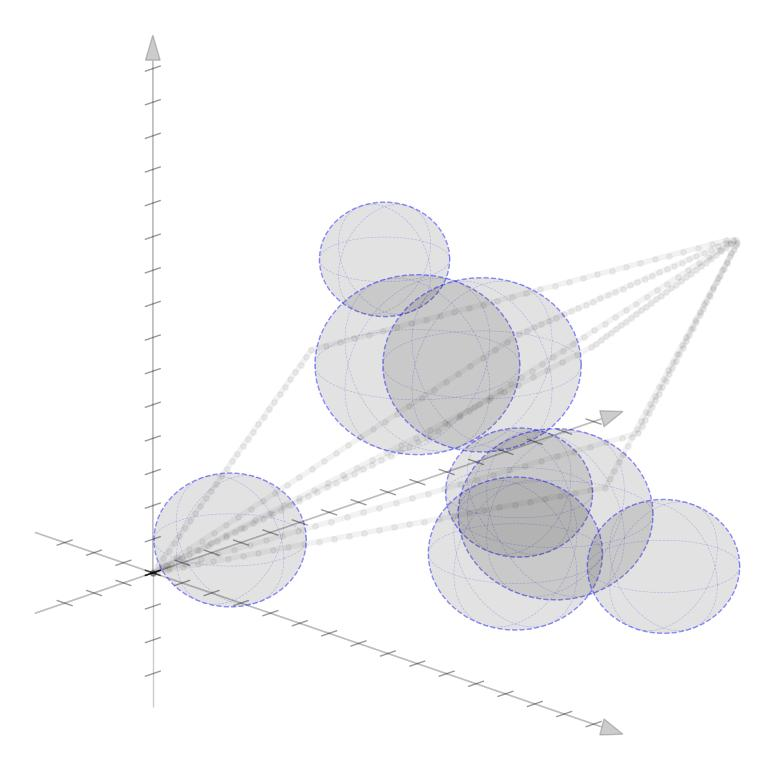
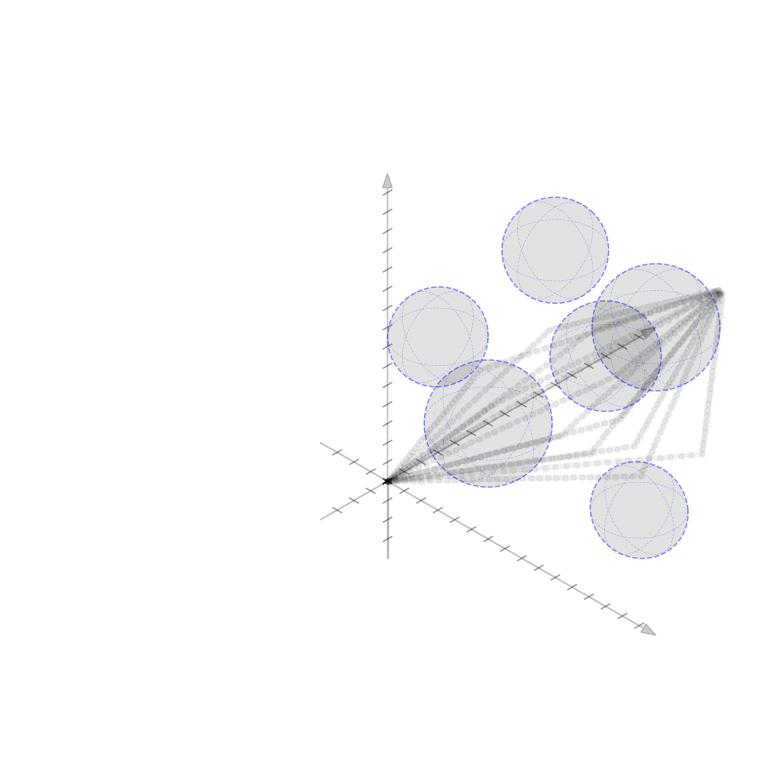
more

diff --git a/blog/scvx.html b/blog/scvx.html
@@ -111,8 +111,8 @@
 
   </style>
 
-  <link rel="stylesheet" href="/Users/dan/Documents/danjcalderone.github.io/css/main.css" ></link>
-  <!-- <link rel="stylesheet" href="/Users/dan/Documents/danjcalderone.github.io/main.css" ></link> -->
+  <link rel="stylesheet" href="/css/main.css" ></link>
+  <!-- <link rel="stylesheet" href="/main.css" ></link> -->
   <link rel="stylesheet" href="/css/main.css" ></link>
 
     </head>
@@ -163,19 +163,23 @@
               <b> Problem Setup </b>
               <p>
 
-              We consider a basic trajectory planning problem to get between two points.  We want to find a path between the starting and end point consistent with the dynamcis while avoiding the obstacles.  We will consider state vector \(x(t) \in \mathbb{R}^n\) for \(n=2,3\)
-              and controls \(u(t) \in \mathbb{R}^n\) for \(n=2,3\) as well.  We consider the simple environments displayed here with given starting and ending locations, \(x_0\) and \(x_T\) respectively.
+              We consider a basic trajectory planning problem to get between two points.  We want to find a path between the starting and end point consistent with the dynamcis while avoiding a set of obstacles denotes \(\mathcal{O}\).  We will consider state vector \(x(t) \in \mathbb{R}^n\) for \(n=2,3\)
+              and controls \(u(t) \in \mathbb{R}^n\) for \(n=2,3\) as well.  We will consider simple spherical obstacles with centers \(p_o \in \mathbb{R}^{n}\) and radii \(r_o \in \mathbb{R}_+\).   The starting and ending locations at times 0 and T respectively will be given.  We display two such simple environments in 2D and 3D here. 
             </p>
+          </div>
 
                 <div class='imgFixed' >
-<!--                 <img src="/Users/dan/Documents/danjcalderone.github.io/figs/blog/scvx/2Dinit.png" width=35%></img>
-                <img src="/Users/dan/Documents/danjcalderone.github.io/figs/blog/scvx/3Dinit.jpeg" width=35%></img>
- -->                
-                <img src="/figs/blog/scvx/2Dinit.png" width=35%></img>
-                <img src="/figs/blog/scvx/3Dinit.jpeg" width=35%></img>
 
+                
+                <img src="/figs/blog/scvx/environ2D.png" width=45%></img>
+                <img src="/figs/blog/scvx/environ3D.png" width=45%></img>
+                
+<!--                 <img src="/figs/blog/scvx/2Dinit.png" width=35%></img>
+                <img src="/figs/blog/scvx/3Dinit.jpeg" width=35%></img>
+ -->
                 </div>
 
+<div class="txt" style="padding:40px">
 
             <b> Dynamics:  </b>
 
@@ -184,7 +188,7 @@
 
               $$
               \begin{aligned}
-              \dot{x}(t) = u(t)
+              \dot{x}(t) = f(x,u,t) =  u(t)
               \end{aligned}
               $$
               We can now compute the discrete time dynamics
@@ -285,18 +289,19 @@
               $$
 
               The initial state trajectories \(\mathbf{x}^(0)\) can then be computed by integrating the initial contols.  Several such trajectories are shown here passing through their random middle points.  
+            </div>
 
 
 
                 <div class='imgFixed' >
-<!--                 <img src="/Users/dan/Documents/danjcalderone.github.io/figs/blog/scvx/2Dinit.png" width=35%></img>
-                <img src="/Users/dan/Documents/danjcalderone.github.io/figs/blog/scvx/3Dinit.jpeg" width=35%></img>
- -->                <img src="/figs/blog/scvx/2Dinit.png" width=35%></img>
+                <img src="/figs/blog/scvx/2Dinit.jpeg" width=45%></img>
+                <img src="/figs/blog/scvx/3Dinit.jpeg" width=45%></img>
+<!--                 <img src="/figs/blog/scvx/2Dinit.png" width=35%></img>
                 <img src="/figs/blog/scvx/3Dinit.jpeg" width=35%></img>
-                
+ -->                
                 </div>
 
-
+<div class="txt" style="padding:40px">
 
               Note that in computing the initial control and state trajectories we have ignored the obstacles and we will need to fix this in the next step.  
 
@@ -319,7 +324,7 @@
               w_s\sum_k v_k^\top v_k \\
               \text{s.t.} & \quad \partial x_{k+1} = A_k \partial x_k + B_k \partial u_k, \ \quad \forall k \\
               & \quad \partial x_0 = 0, \ \partial x_T = 0 \\
-              & \quad G_k \partial x_k  - d_k + s_k \geq 0, \ s_k \geq 0 \quad \forall k 
+              & \quad G_k \partial x_k  \leq d_k + v_k \geq 0, \ v_k \geq 0 \quad \forall k 
               \end{aligned}
               $$
 
@@ -346,26 +351,69 @@
               <b> Linearized Boundary Constraints </b>
               <p> 
 
-                At each time step, we consider a linearized version of the constraint posed by the obstacle for the state at that time step.  Specifically, we can force the  state
+                At each time step, we consider a linearized version of the constraint posed by each of the obstacles for the state at that time step.  Specifically, we can force the  state
                 perturbation at time step \(k\), \(\partial x_k\), to satisfy the linear constraint 
                 $$
                 \begin{aligned}
-                G_k \partial x_k + d_k + v_k \geq 0
+                G_k \partial x_k  \leq d_k + v_k 0, \quad v_k \geq 0
                 \end{aligned}
                 $$
-                We illustrate this here for three obstacles in \(\mathbb{R}^2\) and \(\mathbb{R}^3\).  Each row of \(G_k\) corresponds to the normal direction of the obstacle in the direction of the current estimate of that state (\(x_k\)).  The specific parameters \(G_k\) and \(d_k\) can then be computed as follows.  Note here that \(G_k\) and \(d_k\) are both implicitly functions of the current state estimate \(x_k\).  The additional variable \(v_k\) is a buffer variable that allows the constraints to be violated at intermediate iterations; we will, however, penalize this buffer variable heavily in the objective function to push the trajectory outside the obstacles.  To be conservative, we can also provide a buffer around the obstacles as well to keep our trajectory away from them.  In the following figures, we illustrate the linearized constraints at each time step along the state trajectory.  Note that the perturbed state at each time step is bounded by a different set of hyperplanes that approximate the location of the obstacle relative to the current estimate of that particular state. 
+                Here \(G \in \mathbb{R}^{|\mathcal{O}|\times n}\) is matrix whose rows give the normal directions toward the surface of each obstacle given the current estimate of \(x_k\) and the elements of \(d_k \in \mathbb{R}^{|\mathcal{O}|}\) gives the distance to each obstacle
+
+                $$  
+                \begin{aligned}
+                G_k = 
+                \begin{bmatrix}
+                - & G_{1k} & - \\
+                & \vdots &  \\
+                - & G_{|\mathcal{O}|k} & - \\
+                \end{bmatrix}, \qquad 
+                d_k = 
+                \begin{bmatrix}
+                d_{1k}  \\
+                \vdots \\
+                d_{|\mathcal{O}|k} 
+                \end{bmatrix}, 
+                \end{aligned}
+                $$
+                as displayed in these figures in 2D and 3D.  
+                </p>            
+
+</div>
+                <div class='imgFixed' >
+                <img src="/figs/blog/scvx/bounds2D.png" width=75%></img>
+                </div>
+
+                <div>
+                <img src="/figs/blog/scvx/bounds3D.png" width=75%></img>
+                </div>
+
+<div class="txt" style="padding:40px">
+                <p>
+
+                Each row of \(G_k\) and each element of \(d_k\) can be computed as 
+                $$  
+                \begin{aligned}
+                G_{ok} = \frac{p_o - x_k}{||p_o - x_k||},  \qquad d_{ok} = ||p_o - x_k|| - r_o
+                \end{aligned}
+                $$
+                where \(p_o \in \mathbb{R}^n\) is the position of each obstacle and \(r_o \in \mathbb{R}_+\) is the radius of each obstacle.  The additional variable \(v_{ok}\) (vectorized as \(v_k \in \mathbb{R}^{|\mathcal{O}|}\)) is a buffer variable that allows the constraints to be violated at intermediate iterations; we will, however, penalize these buffer variables heavily in the objective function to push the trajectory outside the obstacles.  To be conservative, we can also provide a buffer around the obstacles as well to keep our trajectory away from them.  In the following figures, we illustrate the linearized constraints at each time step along the state trajectory.  Note that the perturbed state at each time step is bounded by a different set of hyperplanes that approximate the location of the obstacle relative to the current estimate of that particular state. 
 
               </p>
 
+
+</div>
+
                 <div class='imgFixed' >
-<!--                 <img src="/Users/dan/Documents/danjcalderone.github.io/figs/blog/scvx/2Dtraj_bounds.gif" width=45%></img>
-                <img src="/Users/dan/Documents/danjcalderone.github.io/figs/blog/scvx/3Dtraj_bounds.gif" width=45%></img>
- -->                <img src="/figs/blog/scvx/2Dtraj_bounds.gif" width=40%></img>
+                <img src="/figs/blog/scvx/2Dtraj_bounds.gif" width=45%></img>
+                <img src="/figs/blog/scvx/3Dtraj_bounds.gif" width=45%></img>
+                
+<!--                 <img src="/figs/blog/scvx/2Dtraj_bounds.gif" width=40%></img>
                 <img src="/figs/blog/scvx/3Dtraj_bounds.gif" width=55%></img>
-                </div>
+ -->                </div>
 
 
-
+<div class="txt" style="padding:40px">
 
               <b> Objective Function </b>
 
@@ -389,16 +437,19 @@
               \text{Update: } & \quad  \mathbf{u}^{(i+1)} = \mathbf{u}^{(i)} + \alpha \partial \mathbf{u}^{(i)} \quad \text{and} \quad i = i + 1
               \end{aligned}
               $$
-              for some step-size \(\alpha\) while \(\mathbf{u}^{(i)}\) continues to change. In each iteration, we solve for perturbations to the control (and the state) trajectories that are consistent with a linearized version of the problem around the current trajectory.  The iterative process of improving the trajectories in 2D and 3D is illustrated below 
+              for some step-size \(\alpha\) while \(\mathbf{u}^{(i)}\) continues to change. In each iteration, we solve for perturbations to the control (and the state) trajectories that are consistent with a linearized version of the problem around the current trajectory.  The iterative process of improving the trajectories in 2D 
               </p>
             </div>
 
                 <div class='imgFixed' >
-<!--                 <img src="/Users/dan/Documents/danjcalderone.github.io/figs/blog/scvx/2Dtraj.gif" width=45%></img>
-                <img src="/Users/dan/Documents/danjcalderone.github.io/figs/blog/scvx/3Dtraj.gif" width=45%></img>
- -->                <img src="/figs/blog/scvx/2Dtraj.gif" width=45%></img>
+                <img src="/figs/blog/scvx/2Dtraj.gif" width=55%></img>
+              </div>
+              <p> and here in 3D. </p>
+              <div>
+                <img src="/figs/blog/scvx/3Dtraj_wrot2.gif" width=85%></img>
+<!--                  <img src="/figs/blog/scvx/2Dtraj.gif" width=45%></img>
                 <img src="/figs/blog/scvx/3Dtraj.gif" width=45%></img>
-                </div>
+ -->                </div>
 
 
 

diff --git a/css/main.css b/css/main.css
@@ -35,6 +35,7 @@
         } */
 
 
+
 html {
   font-family: "Avenir", sans-serif;
 }
